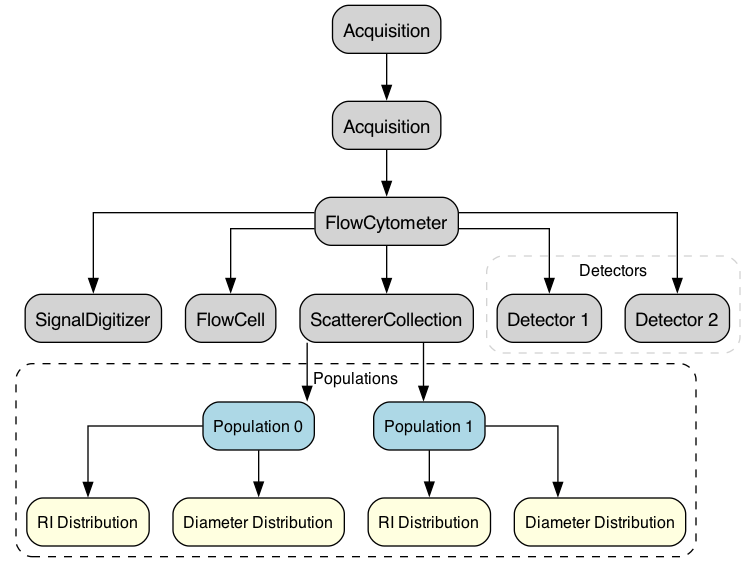
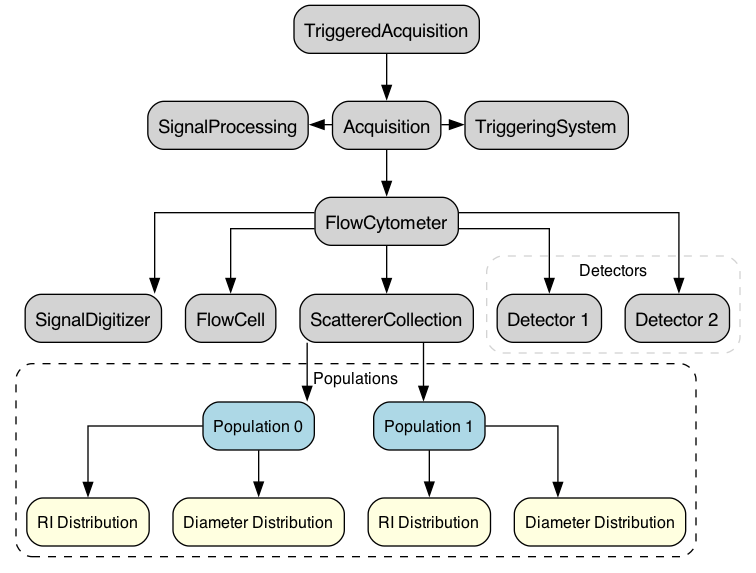
adding the arch.png to the readme

diff --git a/docs/source/create_vizgraph.py b/docs/source/create_vizgraph.py
@@ -38,8 +38,15 @@ dot = Digraph('Architecture', comment='ScattererCollection Architecture', format
 dot.attr(rankdir='TB', splines='ortho', fontsize='10', fontname=fontname)
 
 # Main nodes.
-dot.node('TriggeredAcquisition', 'Acquisition', shape='box', style='rounded,filled', fillcolor='lightgrey', fontsize='14', fontname=fontname)
-dot.node('Acquisition', 'Acquisition', shape='box', style='rounded,filled', fillcolor='lightgrey', fontsize='14', fontname=fontname)
+
+
+with dot.subgraph(name='acq_sub') as cluster:
+    cluster.attr(rank='same')
+    cluster.node('TriggeringSystem', 'TriggeringSystem', shape='box', style='rounded,filled', fillcolor='lightgrey', fontsize='14', fontname=fontname)
+    cluster.node('SignalProcessing', 'SignalProcessing', shape='box', style='rounded,filled', fillcolor='lightgrey', fontsize='14', fontname=fontname)
+    cluster.node('Acquisition', 'Acquisition', shape='box', style='rounded,filled', fillcolor='lightgrey', fontsize='14', fontname=fontname)
+
+dot.node('TriggeredAcquisition', 'TriggeredAcquisition', shape='box', style='rounded,filled', fillcolor='lightgrey', fontsize='14', fontname=fontname)
 dot.node('FlowCytometer', 'FlowCytometer', shape='box', style='rounded,filled', fillcolor='lightgrey', fontsize='14', fontname=fontname)
 dot.node('SignalDigitizer', 'SignalDigitizer', shape='box', style='rounded,filled', fillcolor='lightgrey', fontsize='14', fontname=fontname)
 dot.node('FlowCell', 'FlowCell', shape='box', style='rounded,filled', fillcolor='lightgrey', fontsize='14', fontname=fontname)
@@ -55,8 +62,8 @@ with dot.subgraph(name='cluster_populations') as pop_cluster:
     add_population(pop_cluster, 'Population 1')
 
 # Define connections.
-dot.edge('TriggeredAcquisition', 'Acquisition', style='solid', fontsize='10')
 dot.edge('Acquisition', 'FlowCytometer', style='solid', fontsize='10')
+dot.edge('TriggeredAcquisition', 'Acquisition', style='solid', fontsize='10')
 dot.edge('FlowCytometer', 'SignalDigitizer', style='solid', fontsize='10')
 dot.edge('FlowCytometer', 'Detector 1', style='solid', fontsize='10')
 dot.edge('FlowCytometer', 'Detector 2', style='solid', fontsize='10')
@@ -64,6 +71,13 @@ dot.edge('FlowCytometer', 'ScattererCollection', style='solid', fontsize='10')
 dot.edge('FlowCytometer', 'FlowCell', style='solid', fontsize='10')
 dot.edge('ScattererCollection', 'Population 0', style='solid', fontsize='10')
 dot.edge('ScattererCollection', 'Population 1', style='solid', fontsize='10')
+
+
+dot.edge('SignalProcessing', 'Acquisition', style='solid', fontsize='10', dir='back')
+dot.edge('Acquisition', 'TriggeringSystem', style='solid', fontsize='10')
+
+
+
 
 # Render and view the graph.
 dot.render('Architecture', view=True)

diff --git a/README.rst b/README.rst
@@ -160,7 +160,6 @@ Here is the architecture for a standard workflow using FlowCyPy:
 
 
 
-
 Development and Contribution
 -----------------------------
 
